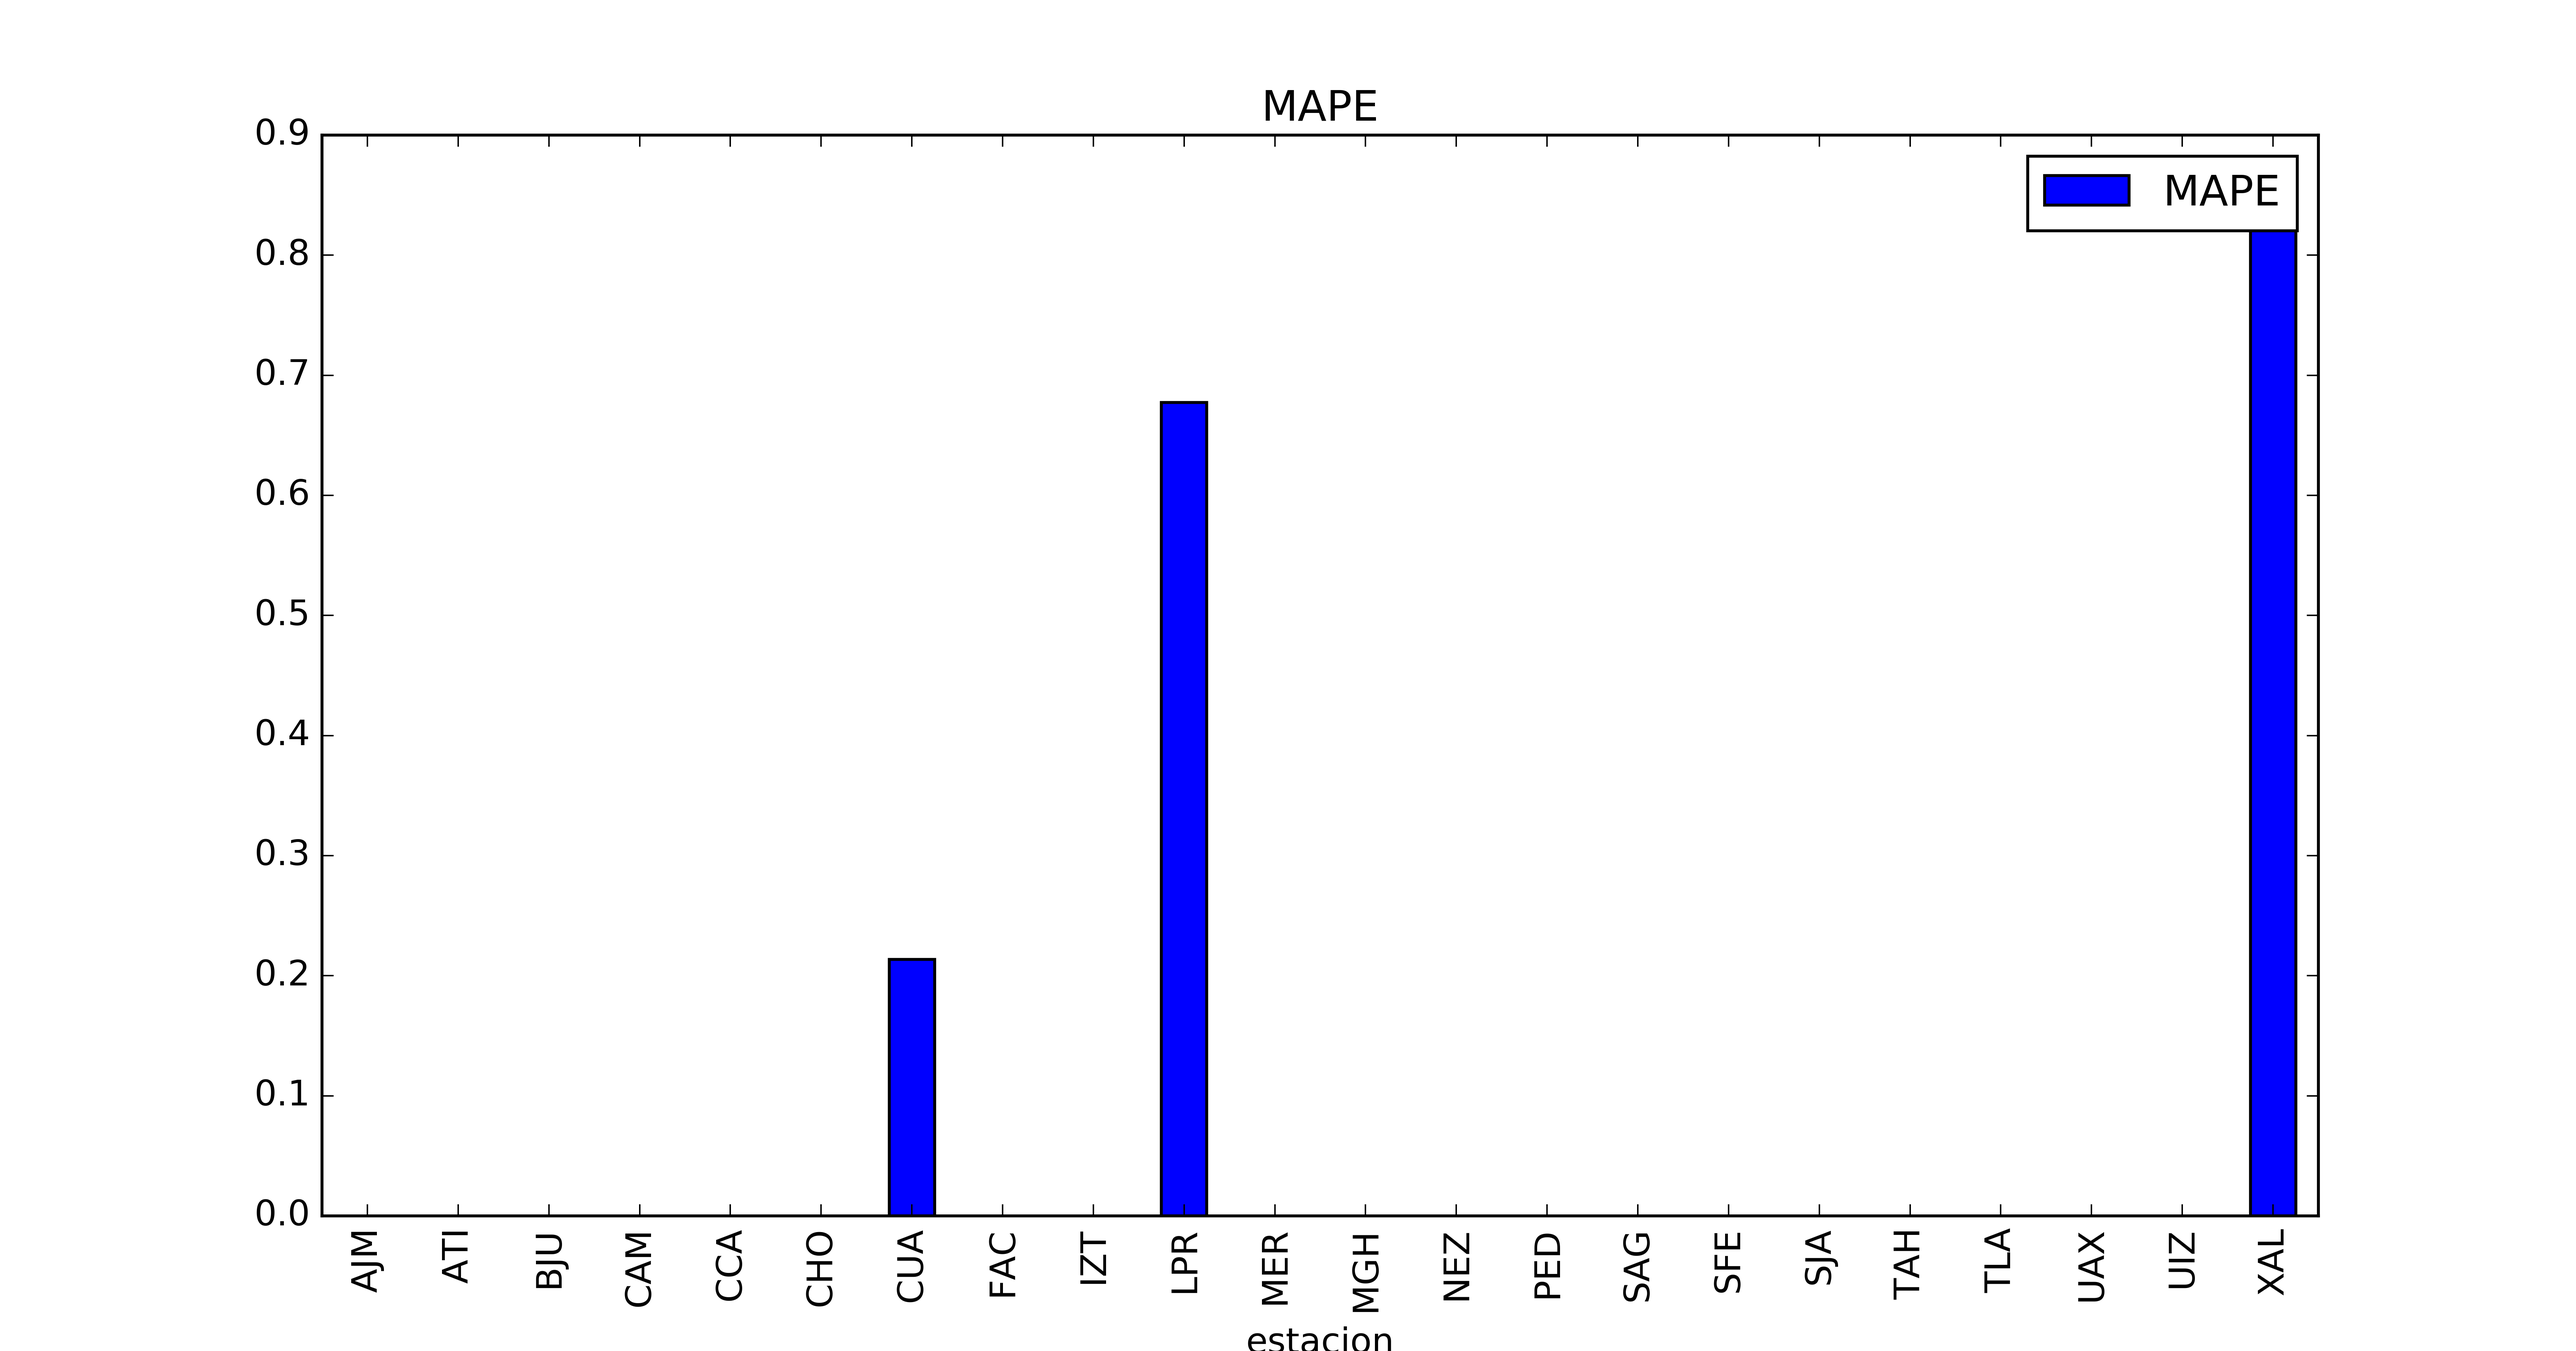
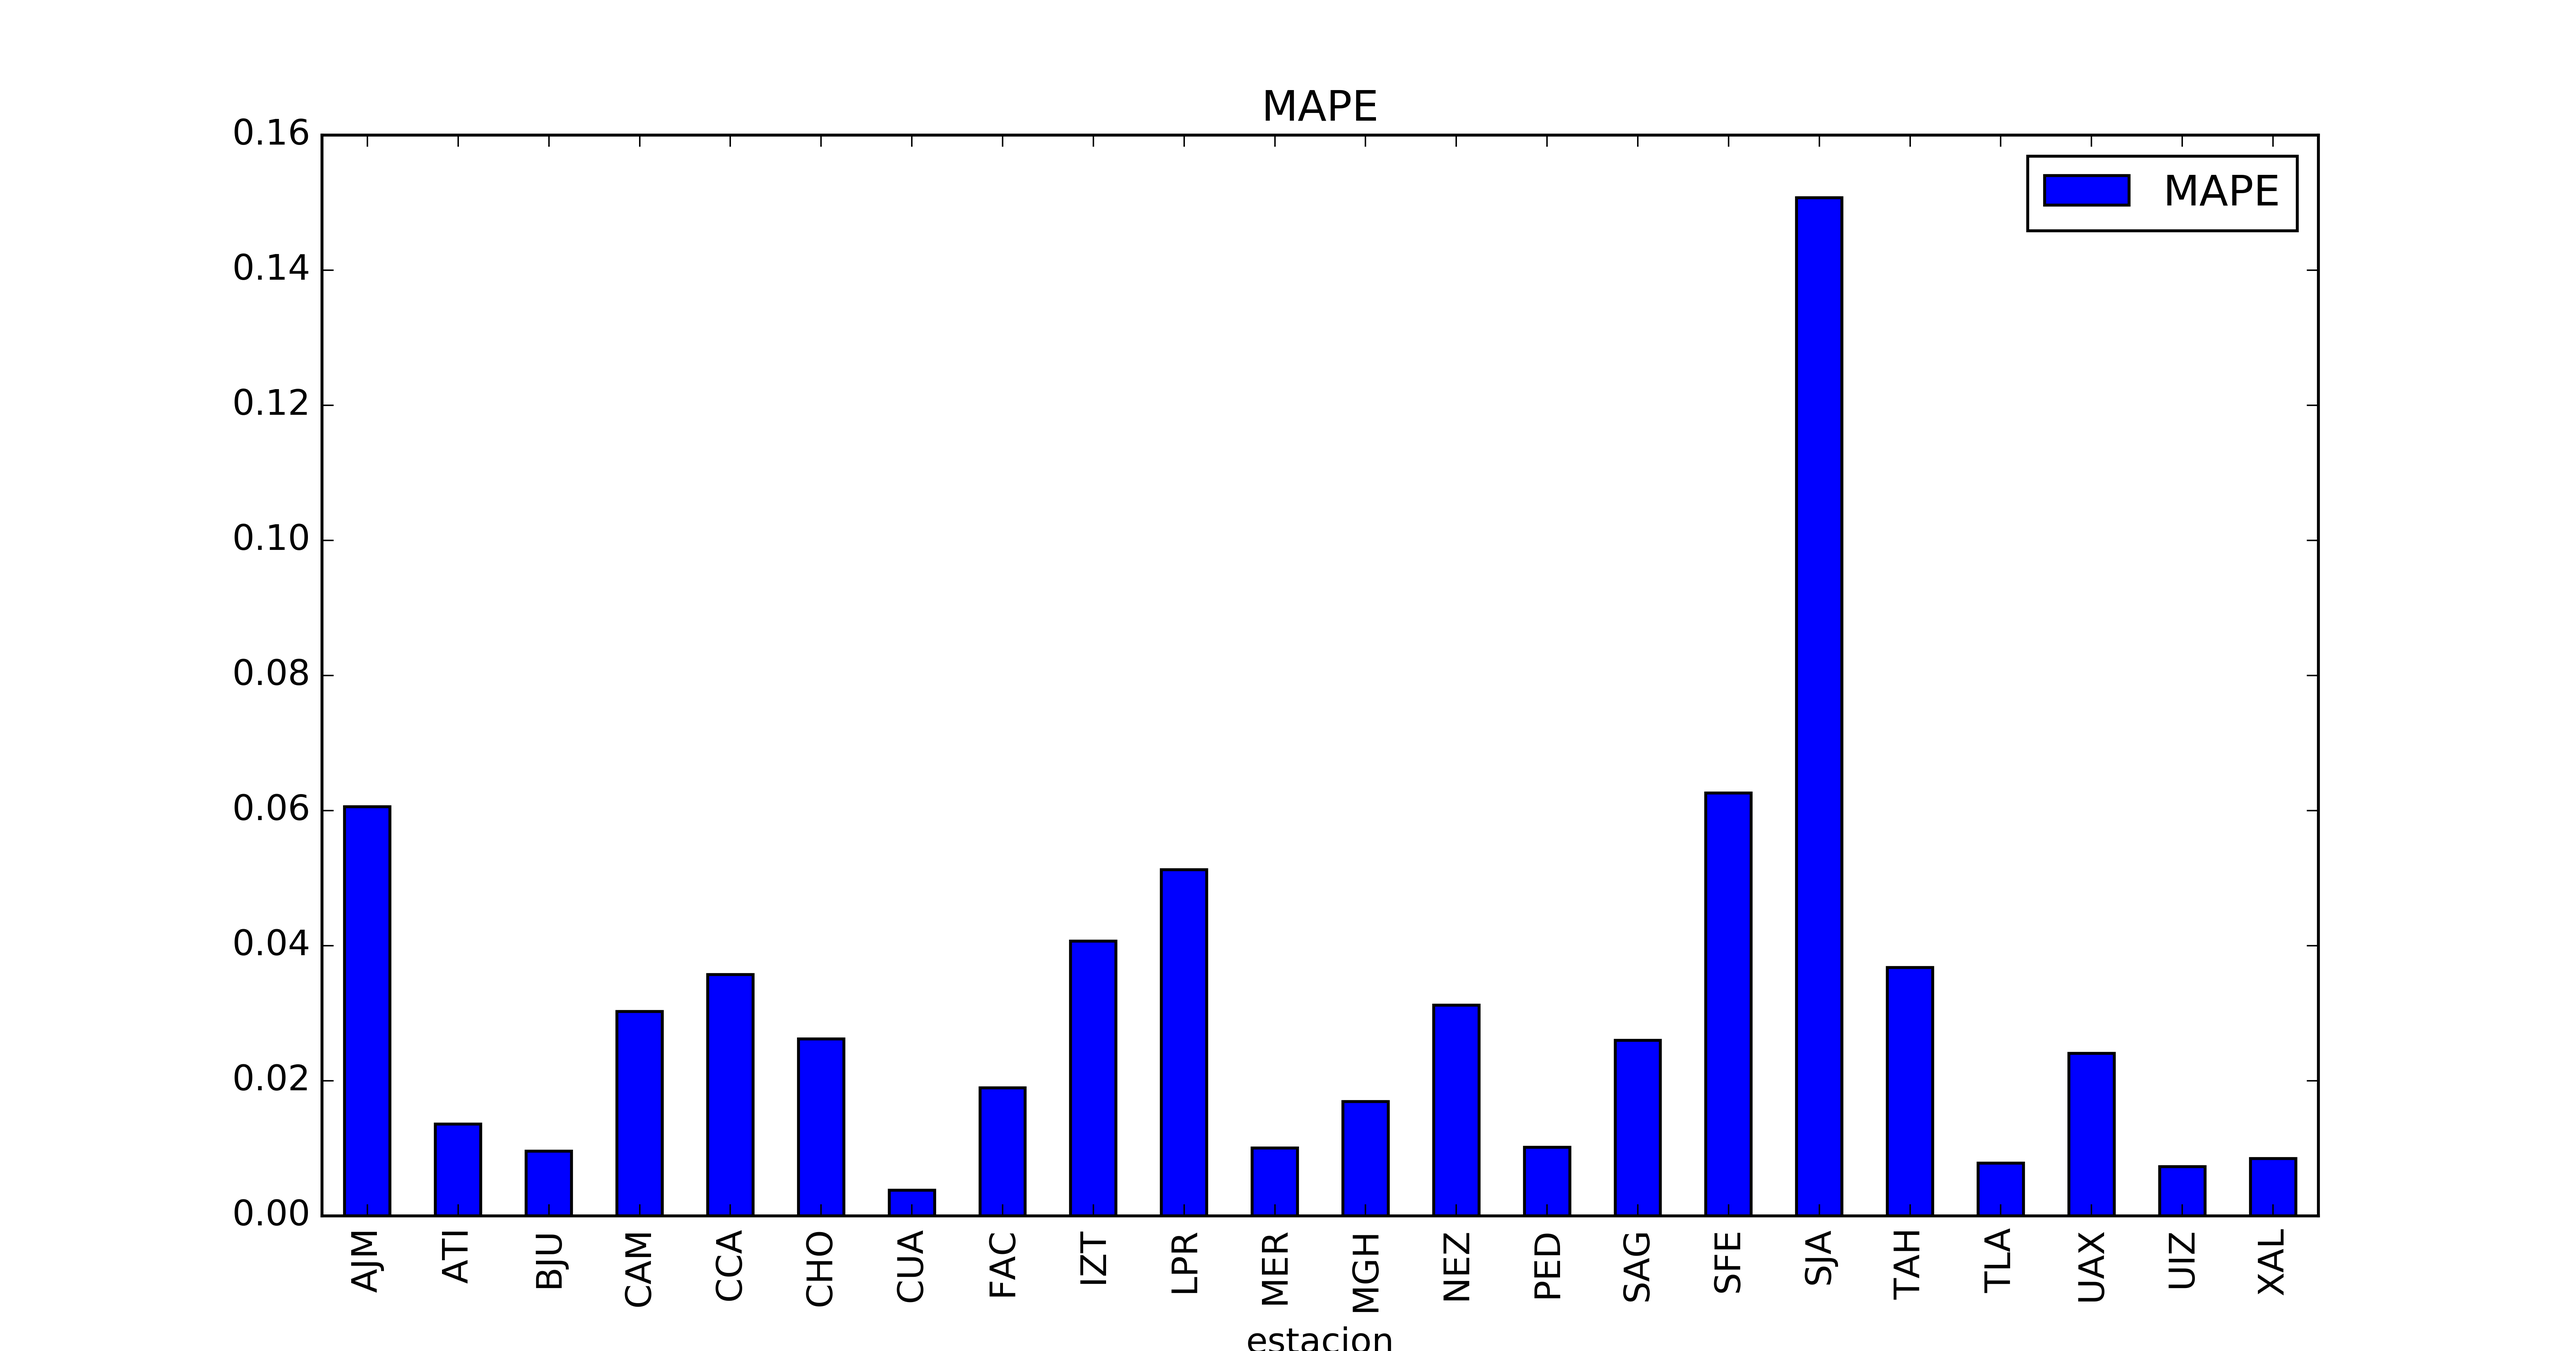
add graphics

diff --git a/testPrediction.py b/testPrediction.py
@@ -18,9 +18,9 @@ est =['AJM','MGH','CCA','SFE','UAX','CUA','NEZ','CAM','LPR','SJA','IZT','SAG','T
 startDate =['2015/01/01','2015/01/01','2014/08/01','2012/02/20','2012/02/20','2011/10/01','2011/07/27','2011/07/01','2011/07/01','2011/07/01','2007/07/20','1995/01/01','1995/01/01','1994/01/02','1993/01/01','1987/05/31','1986/01/16','1986/01/16','1986/01/15','1986/01/10'];
 #est =['AJM','MGH','CCA','SFE','UAX','CUA','NEZ','CAM','LPR','SJA','CHO','IZT','SAG','TAH','ATI','FAC','UIZ','MER','PED','TLA','BJU','XAL'];
 #startDate =['2015/01/01','2015/01/01','2014/08/01','2012/02/20','2012/02/20','2011/10/01','2011/07/27','2011/07/01','2011/07/01','2011/07/01','2007/07/20','2007/07/20','1995/01/01','1995/01/01','1994/01/02','1993/01/01','1987/05/31','1986/01/16','1986/01/16','1986/01/15','1986/01/12','1986/01/10'];
-dirrDataC = 'data/DatosCP/';
-dirData  = 'data/DatosLP/';
-dirGraficas = 'Graficas/Predicciones/GraficasLP/'
+dirrDataC = 'data/DatosCM/';
+dirData  = 'data/DatosLM/';
+dirGraficas = 'Graficas/Predicciones/GraficasGLM/'
 metri = [];
 
 

diff --git a/NNSystem/neuralNetworkGpu.py b/NNSystem/neuralNetworkGpu.py
@@ -68,8 +68,8 @@ def train(x_d,y_data, columns,iteraciones,station,contaminant):
 
     # Declare optimizer gradientDescent
     with tf.device("/gpu:0"):
-        #my_opt = tf.train.GradientDescentOptimizer(0.1);
-        my_opt = tf.train.AdamOptimizer(0.001);
+        my_opt = tf.train.GradientDescentOptimizer(0.1);
+        #my_opt = tf.train.AdamOptimizer(0.001);
         train_step = my_opt.minimize(loss);
 
     # Initialize Variables
@@ -94,6 +94,6 @@ def train(x_d,y_data, columns,iteraciones,station,contaminant):
         if (i+1)%iteraciones==0:
             total_loss = temp_loss;
 
-    saver.save(sess,'trainData/TrainLM/'+station+'/'+name+'.ckpt')
+    saver.save(sess,'trainData/TrainGLM/'+station+'/'+name+'.ckpt')
     sess.close()
     #return total_loss;

diff --git a/prediction.py b/prediction.py
@@ -2,8 +2,8 @@ import numpy as np
 import tensorflow as tf
 import pandas as df
 
-dirData = 'data/DatosLP/'
-dirTrain = 'trainData/TrainLP/'
+dirData = 'data/DatosLM/'
+dirTrain = 'trainData/TrainGLM/'
 
 
 def normalize(data,station,contaminant):
@@ -98,8 +98,8 @@ def prediction(station,contaminant,arrayPred):
     loss= tf.reduce_mean(tf.abs(y_target - final_output));
 
     # Declare optimizer gradientDescent
-    #my_opt = tf.train.GradientDescentOptimizer(0.1);
-    my_opt = tf.train.AdamOptimizer(0.001);
+    my_opt = tf.train.GradientDescentOptimizer(0.1);
+    #my_opt = tf.train.AdamOptimizer(0.001);
     train_step = my_opt.minimize(loss);
     saver = tf.train.Saver()
     with tf.Session() as sess:
